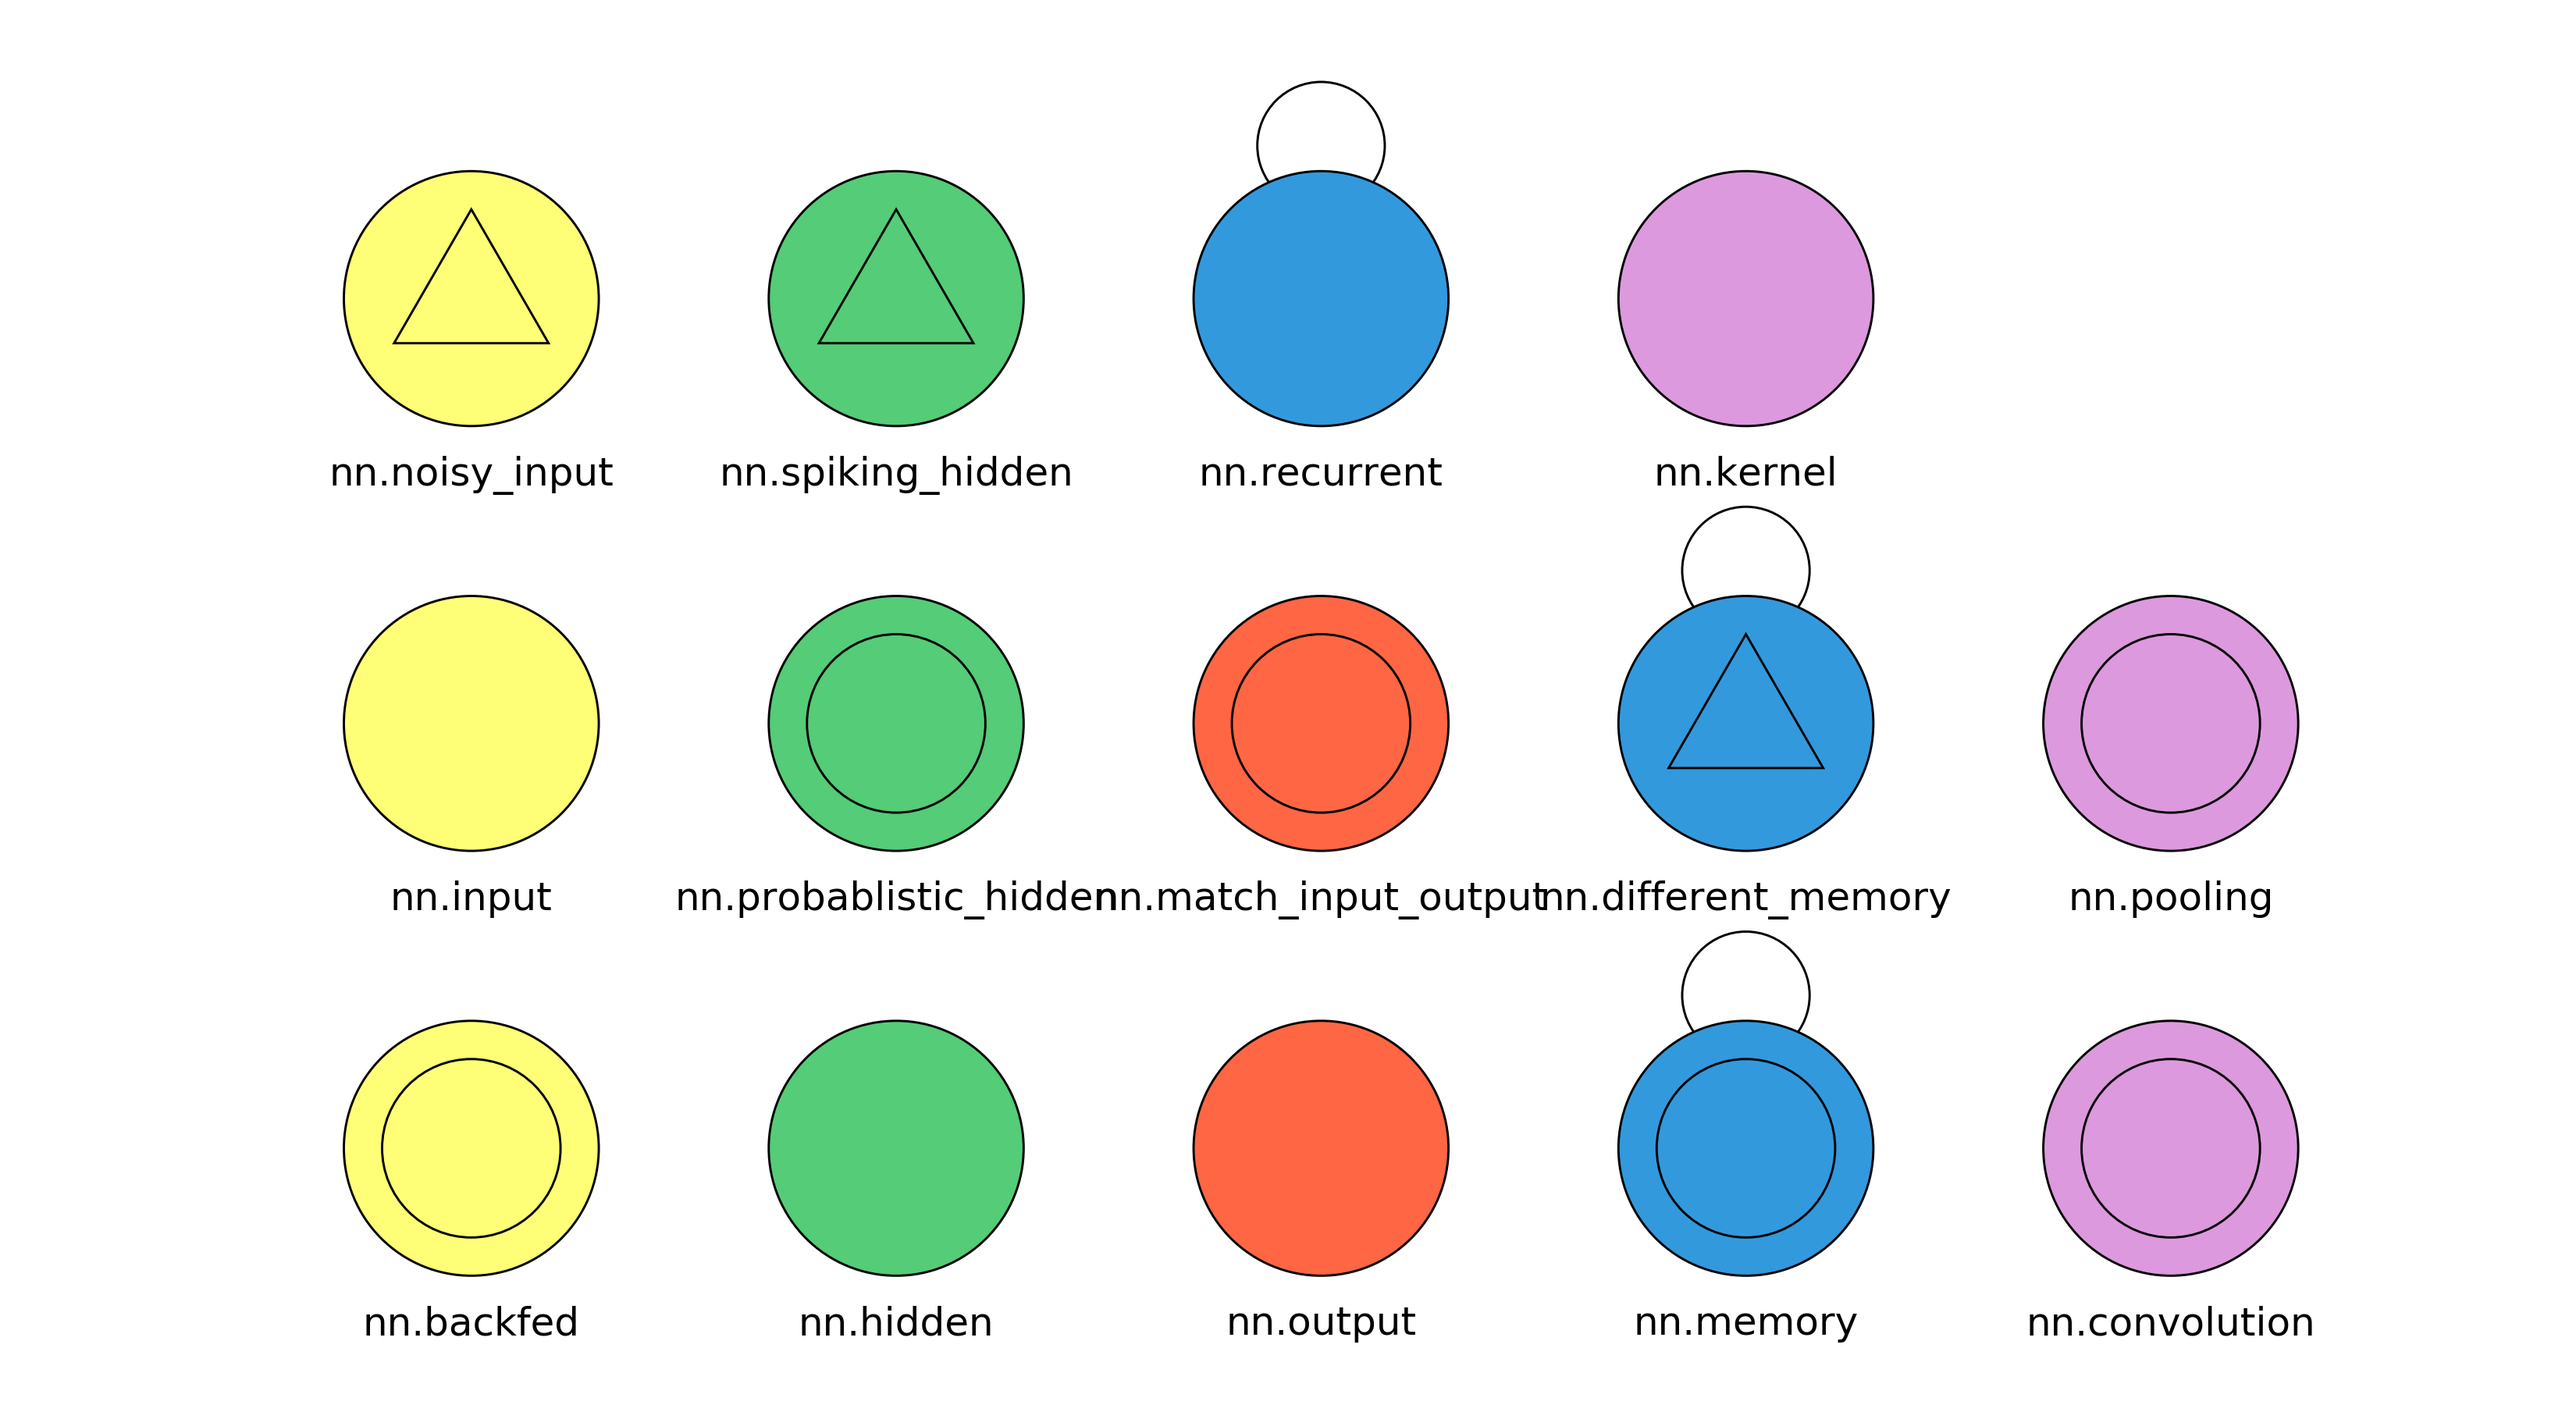
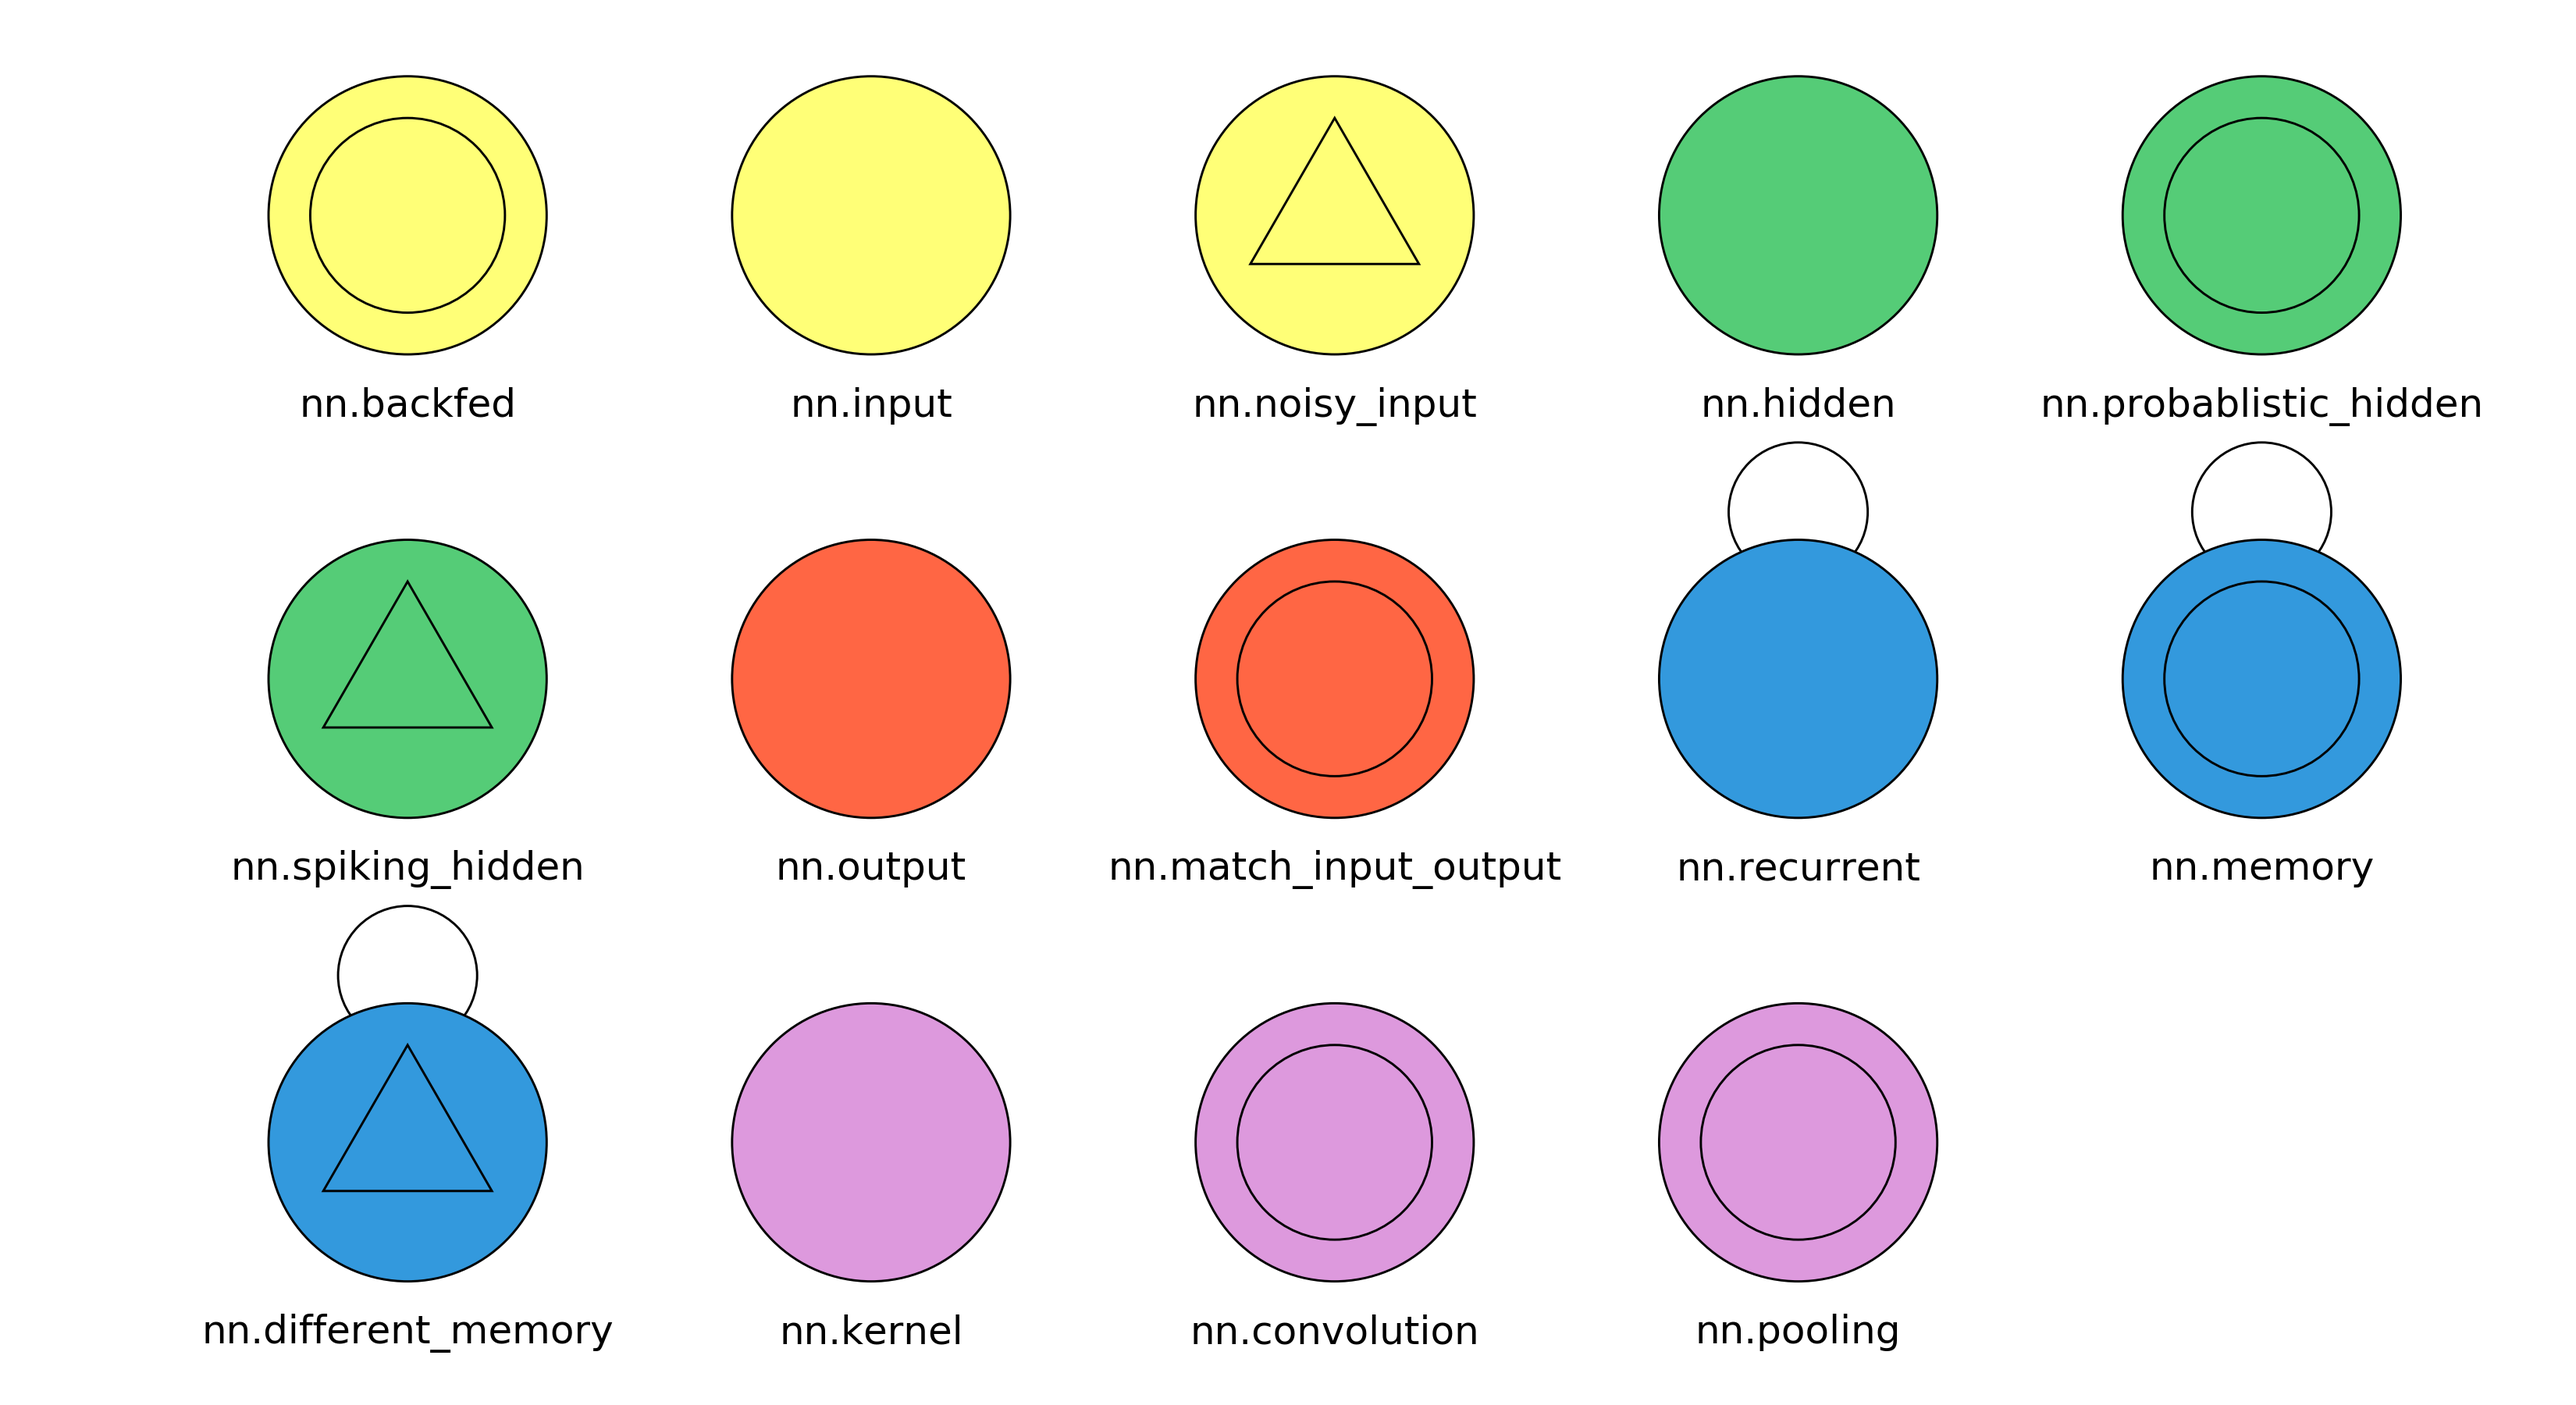
update docs

diff --git a/viznet/brush.py b/viznet/brush.py
@@ -161,8 +161,8 @@ class NodeBrush(Brush):
                     exy_list = [(xy[0], xy[1]+radi)]
                 else:
                     radi_  = radi/np.sqrt(2.)
-                    sxy_list = [(xy[0]-radi_, xy[1]-radi_), (xy[0]+radi_, xy[1]+radi_)]
-                    exy_list = [(xy[0]+radi_, xy[1]-radi_), (xy[0]-radi_, xy[1]+radi_)]
+                    sxy_list = [(xy[0]-radi_, xy[1]-radi_), (xy[0]+radi_, xy[1]-radi_)]
+                    exy_list = [(xy[0]+radi_, xy[1]+radi_), (xy[0]-radi_, xy[1]+radi_)]
                 for sxy, exy in zip(sxy_list, exy_list):
                     plt.plot([sxy[0], exy[0]], [sxy[1], exy[1]],color=inner_ec, lw=inner_lw,zorder=101)
             elif inner_geo == 'measure':
@@ -225,7 +225,7 @@ class EdgeBrush(Brush):
         unit_d = d / np.linalg.norm(d)
         sxy = start.get_connection_point(unit_d)
         exy = end.get_connection_point(-unit_d)
-        d = exy - sxy
+        d = np.asarray(exy) - sxy
         unit_d = d / np.linalg.norm(d)
 
         # get arrow locations.
@@ -245,7 +245,7 @@ class EdgeBrush(Brush):
         for st, mxy in arrow_locs:
             sign = 1 if st == '>' else -1
             mxy = mxy-sign*head_vec*0.6
-            plt.arrow(mxy[0], mxy[1], sign*0.01 * d[0], sign*0.01 * d[1],
+            plt.arrow(mxy[0], mxy[1], sign*1e-8 * d[0], sign*1e-8 * d[1],
                       head_length=head_length, width=0,
                       head_width=head_width, fc=self.color,
                       length_includes_head=False, lw=lw, edgecolor=self.color, zorder=self.zorder)

diff --git a/viznet/tests/test_brush.py b/viznet/tests/test_brush.py
@@ -3,6 +3,7 @@ import matplotlib.pyplot as plt
 import pdb
 
 from ..brush import NodeBrush, EdgeBrush
+from ..edgenode import Pin
 from ..context import DynamicShow
 from ..circuit import QuantumCircuit
 
@@ -79,6 +80,16 @@ def test_ghz():
         for i in range(num_bit):
             plt.text(-0.4, i, r'$\vert0\rangle_{Q_%d}$'%i,va = 'center', ha='center', fontsize=18)
 
+def test_edge():
+    edge_list = ['-', '..-','->--','<=>', '===->', '->-....-<-']
+    with DynamicShow(figsize=(6,3)) as ds:
+        for i, style in enumerate(edge_list):
+            edge = EdgeBrush(style, ds.ax)
+            p1 = Pin((0,-i*0.1))
+            p2 = Pin((1,-i*0.1))
+            edge >> (p1, p2)
+            p1.text(style, 'left')
+
 def test_tebd():
     # remove the edges for nodes
     from ..setting import node_setting
@@ -135,6 +146,7 @@ def test_pin():
 
 
 if __name__ == '__main__':
+    test_edge()
     test_ghz()
     test_edgenode()
     test_pin()

diff --git a/viznet/tests/test_netbasic.py b/viznet/tests/test_netbasic.py
@@ -35,15 +35,15 @@ def test_draw_feed_forward():
 
 def test_theme_table():
     '''plot a table of node themes'''
-    genre = [('nn.', 'nn'), ('tn.', 'tn'), ('', '')]
+    genre = [('nn.', 'nn'), ('tn.', 'tn'), ('qc.','qc'), ('', '')]
     for head, token in genre:
         with DynamicShow((11, 6), filename='_%s_theme_list.png' % token) as d:
             handler = Layerwise()
             i = 0
             for kind in NODE_THEME_DICT.keys():
-                if kind[:3] == head or (kind[:3] not in ['nn.', 'tn.'] and token == ''):
+                if kind[:3] == head or (kind[:3] not in ['nn.', 'tn.', 'qc.'] and token == ''):
                     brush = NodeBrush(kind, d.ax)
-                    node = brush >> (i // 3, i % 3)
+                    node = brush >> (i%5, -(i // 5))
                     node.text(kind, 'bottom')
                     i += 1
 

diff --git a/viznet/edgenode.py b/viznet/edgenode.py
@@ -236,8 +236,15 @@ class Pin(EdgeNode):
         position (tuple): the position of this dot.
     '''
 
-    def __init__(self, position):
+    def __init__(self, position, ax=None):
         self.position = position
+        self._ax = ax
+
+    @property
+    def ax(self):
+        if self._ax is None:
+            return plt.gca()
+        return self._ax
 
     @property
     def width(self):

diff --git a/docs/tutorials.rst b/docs/tutorials.rst
@@ -45,7 +45,22 @@ The following code examplify how to draw two nodes and connection them using a d
 .. image:: images/tn_theme_list.png
     :align: center
 
-:class: `EdgeBrush` has three different styles, 'directed', 'undirected', 'arrow', you can set color and width of your line for this :class:`EdgeBrush`.
+.. image:: images/qc_theme_list.png
+    :align: center
+
+:class:`EdgeBrush` take a string as style, this must must be composed of characters in [ - | . | = | > | < ],
+        - '-': solid line,
+        - '=': double solid line,
+        - '.': dashed line,
+        - '>': arrow towards end of line, no length,
+        - '<': arrow towards start of line, no length.
+
+For example,
+
+.. image:: images/lines.png
+    :align: center
+
+Also, you can set color and width of your line for this :class:`EdgeBrush` by passing arguments into construction method.
 
 :obj:`ds.ax` is nothing but a :obj:`matplotlib.Axes` instance. Now, your canvas looks like
 

diff --git a/docs/examples.rst b/docs/examples.rst
@@ -50,3 +50,22 @@ The output is
 
 .. image:: images/tebd.png
     :align: center
+
+
+The fourth example is a quantum circuit
+
+.. literalinclude:: ../apps/qc/ghz.py
+	:tab-width: 2
+
+.. code-block:: bash
+
+	$ python apps/qc/ghz.py
+
+The output is 
+
+.. image:: images/ghz4.png
+    :align: center
+
+Here, we used the :class:`QuantumCircuit` instance :obj:`handler` to help us build the circuit.
+`gate` method of :obj:`handler` take brush(es) as first argument and line(lines) as second argument.
+`handler.x` decide the `x` axis of this gate.

diff --git a/docs/core.rst b/docs/core.rst
@@ -1,4 +1,4 @@
-.. _viznet
+.. _viznet:
 
 viznet
 ========
